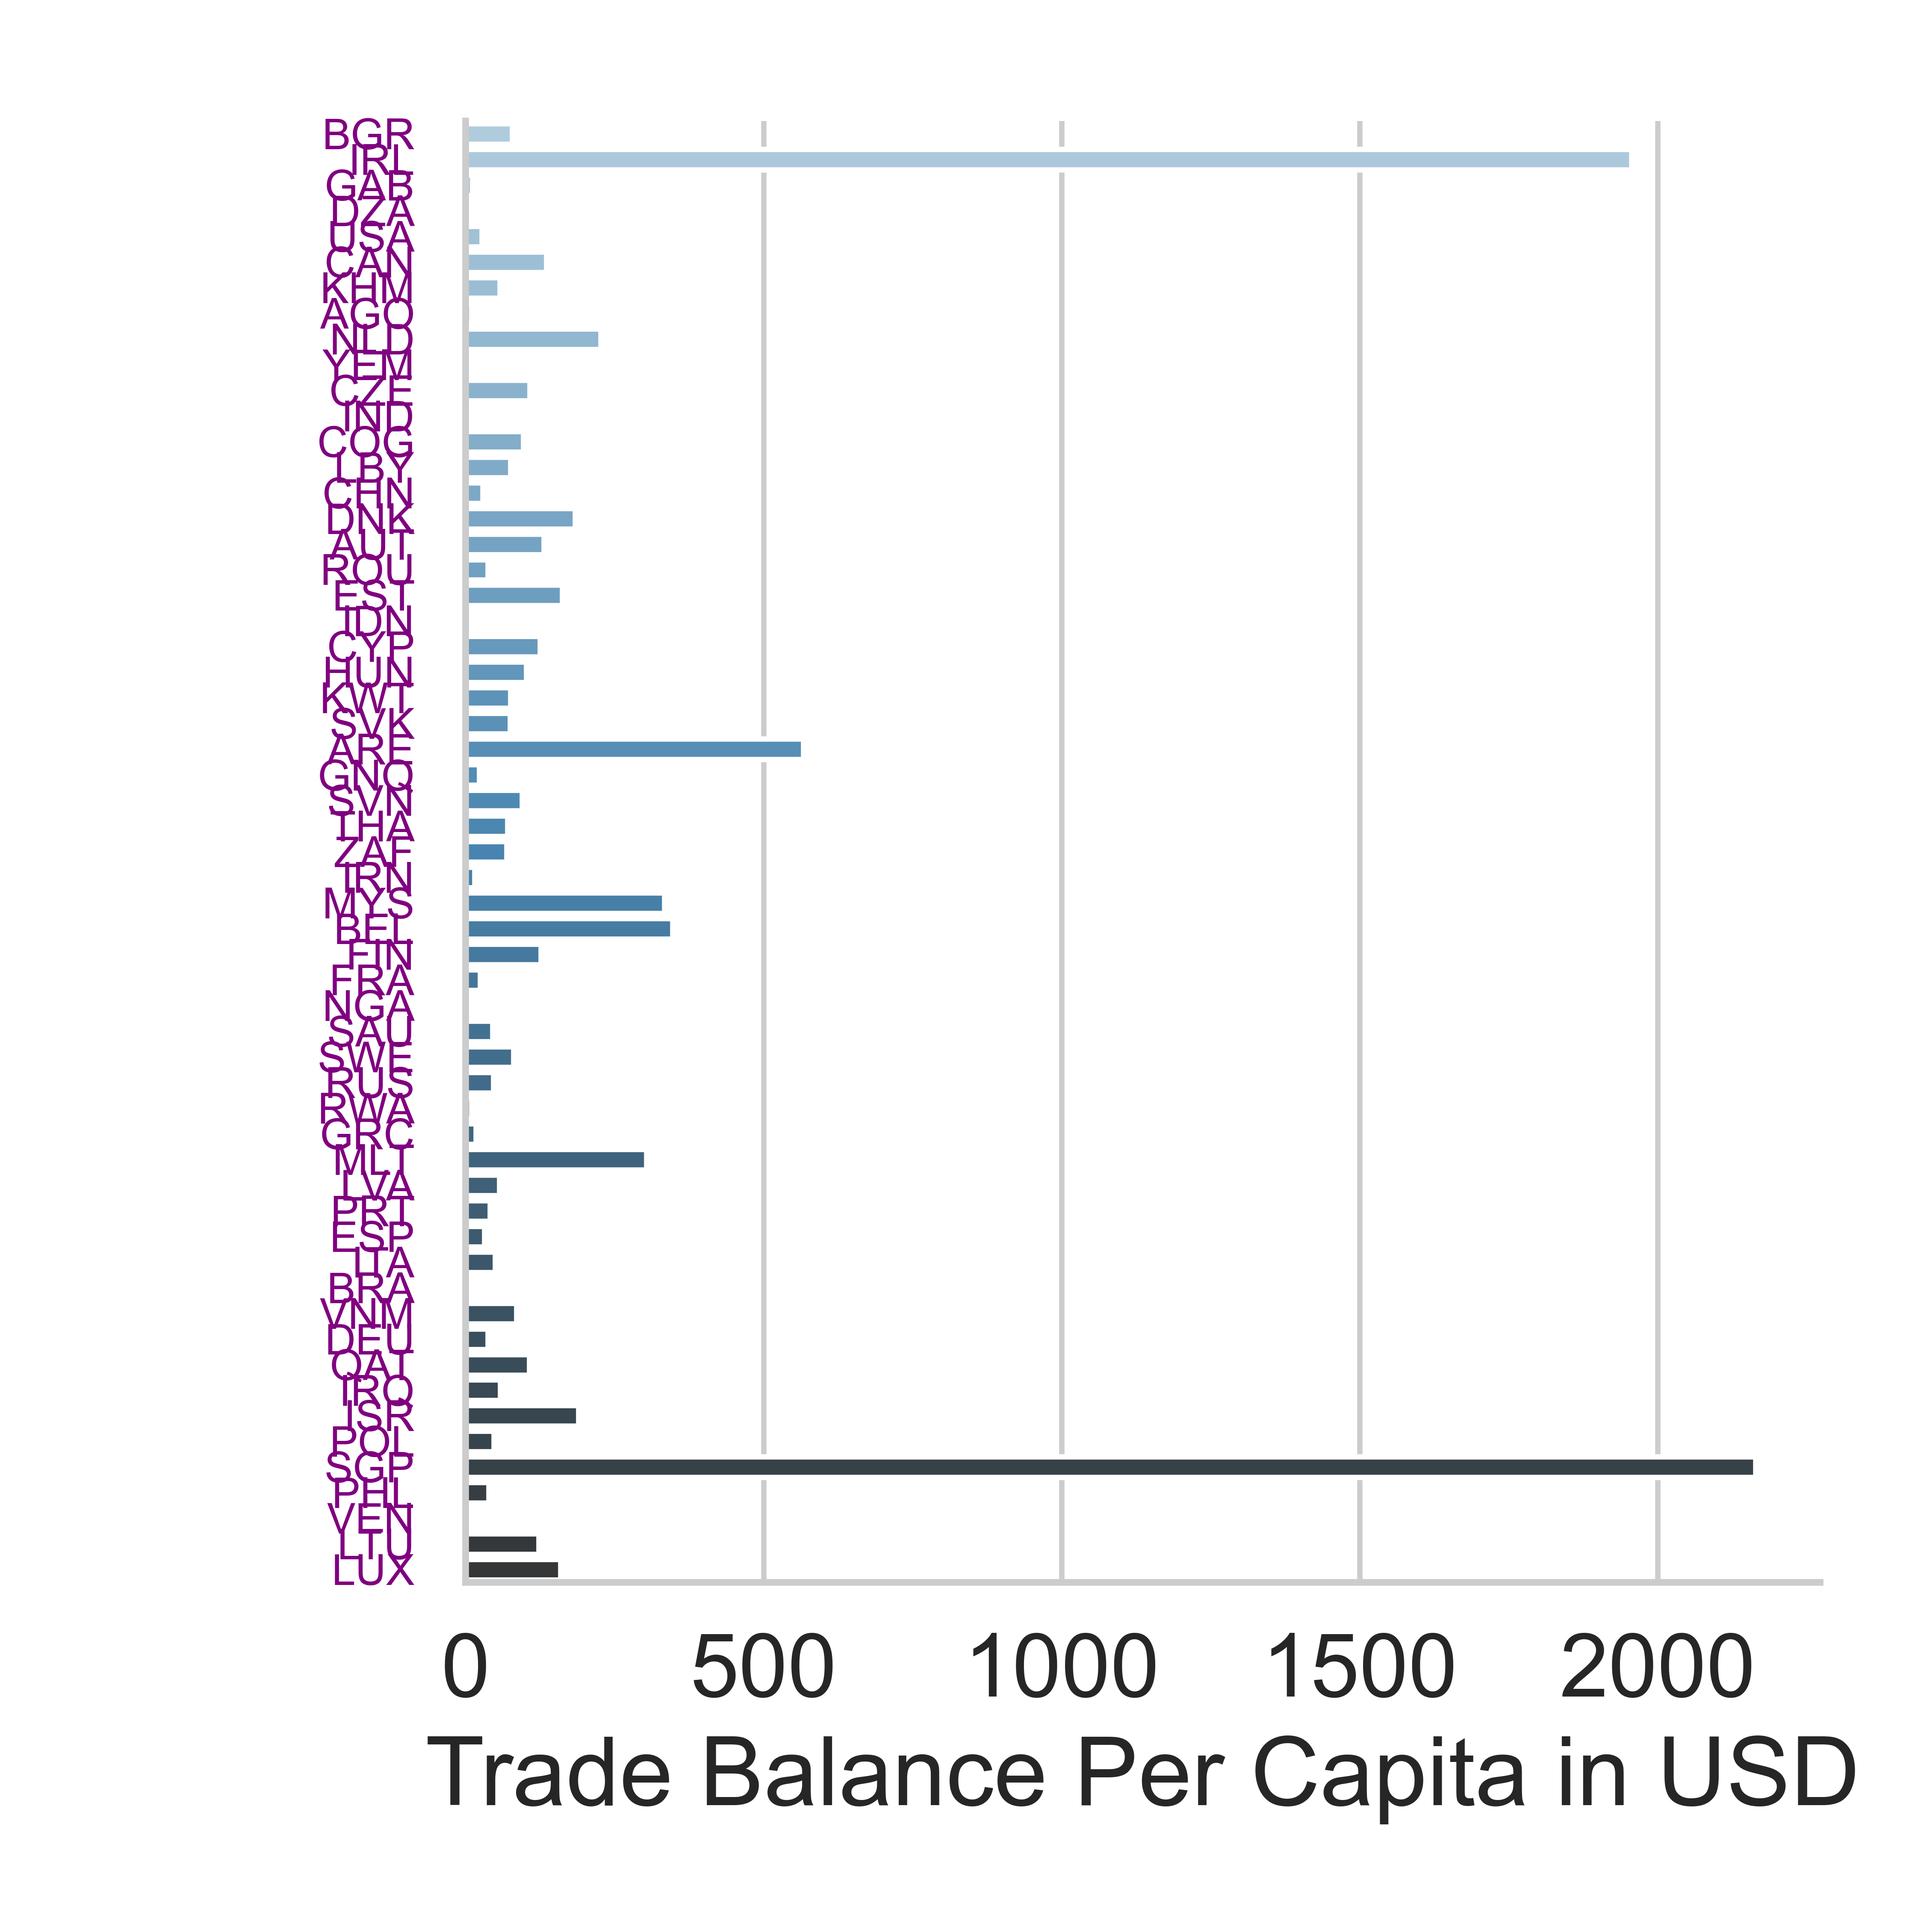
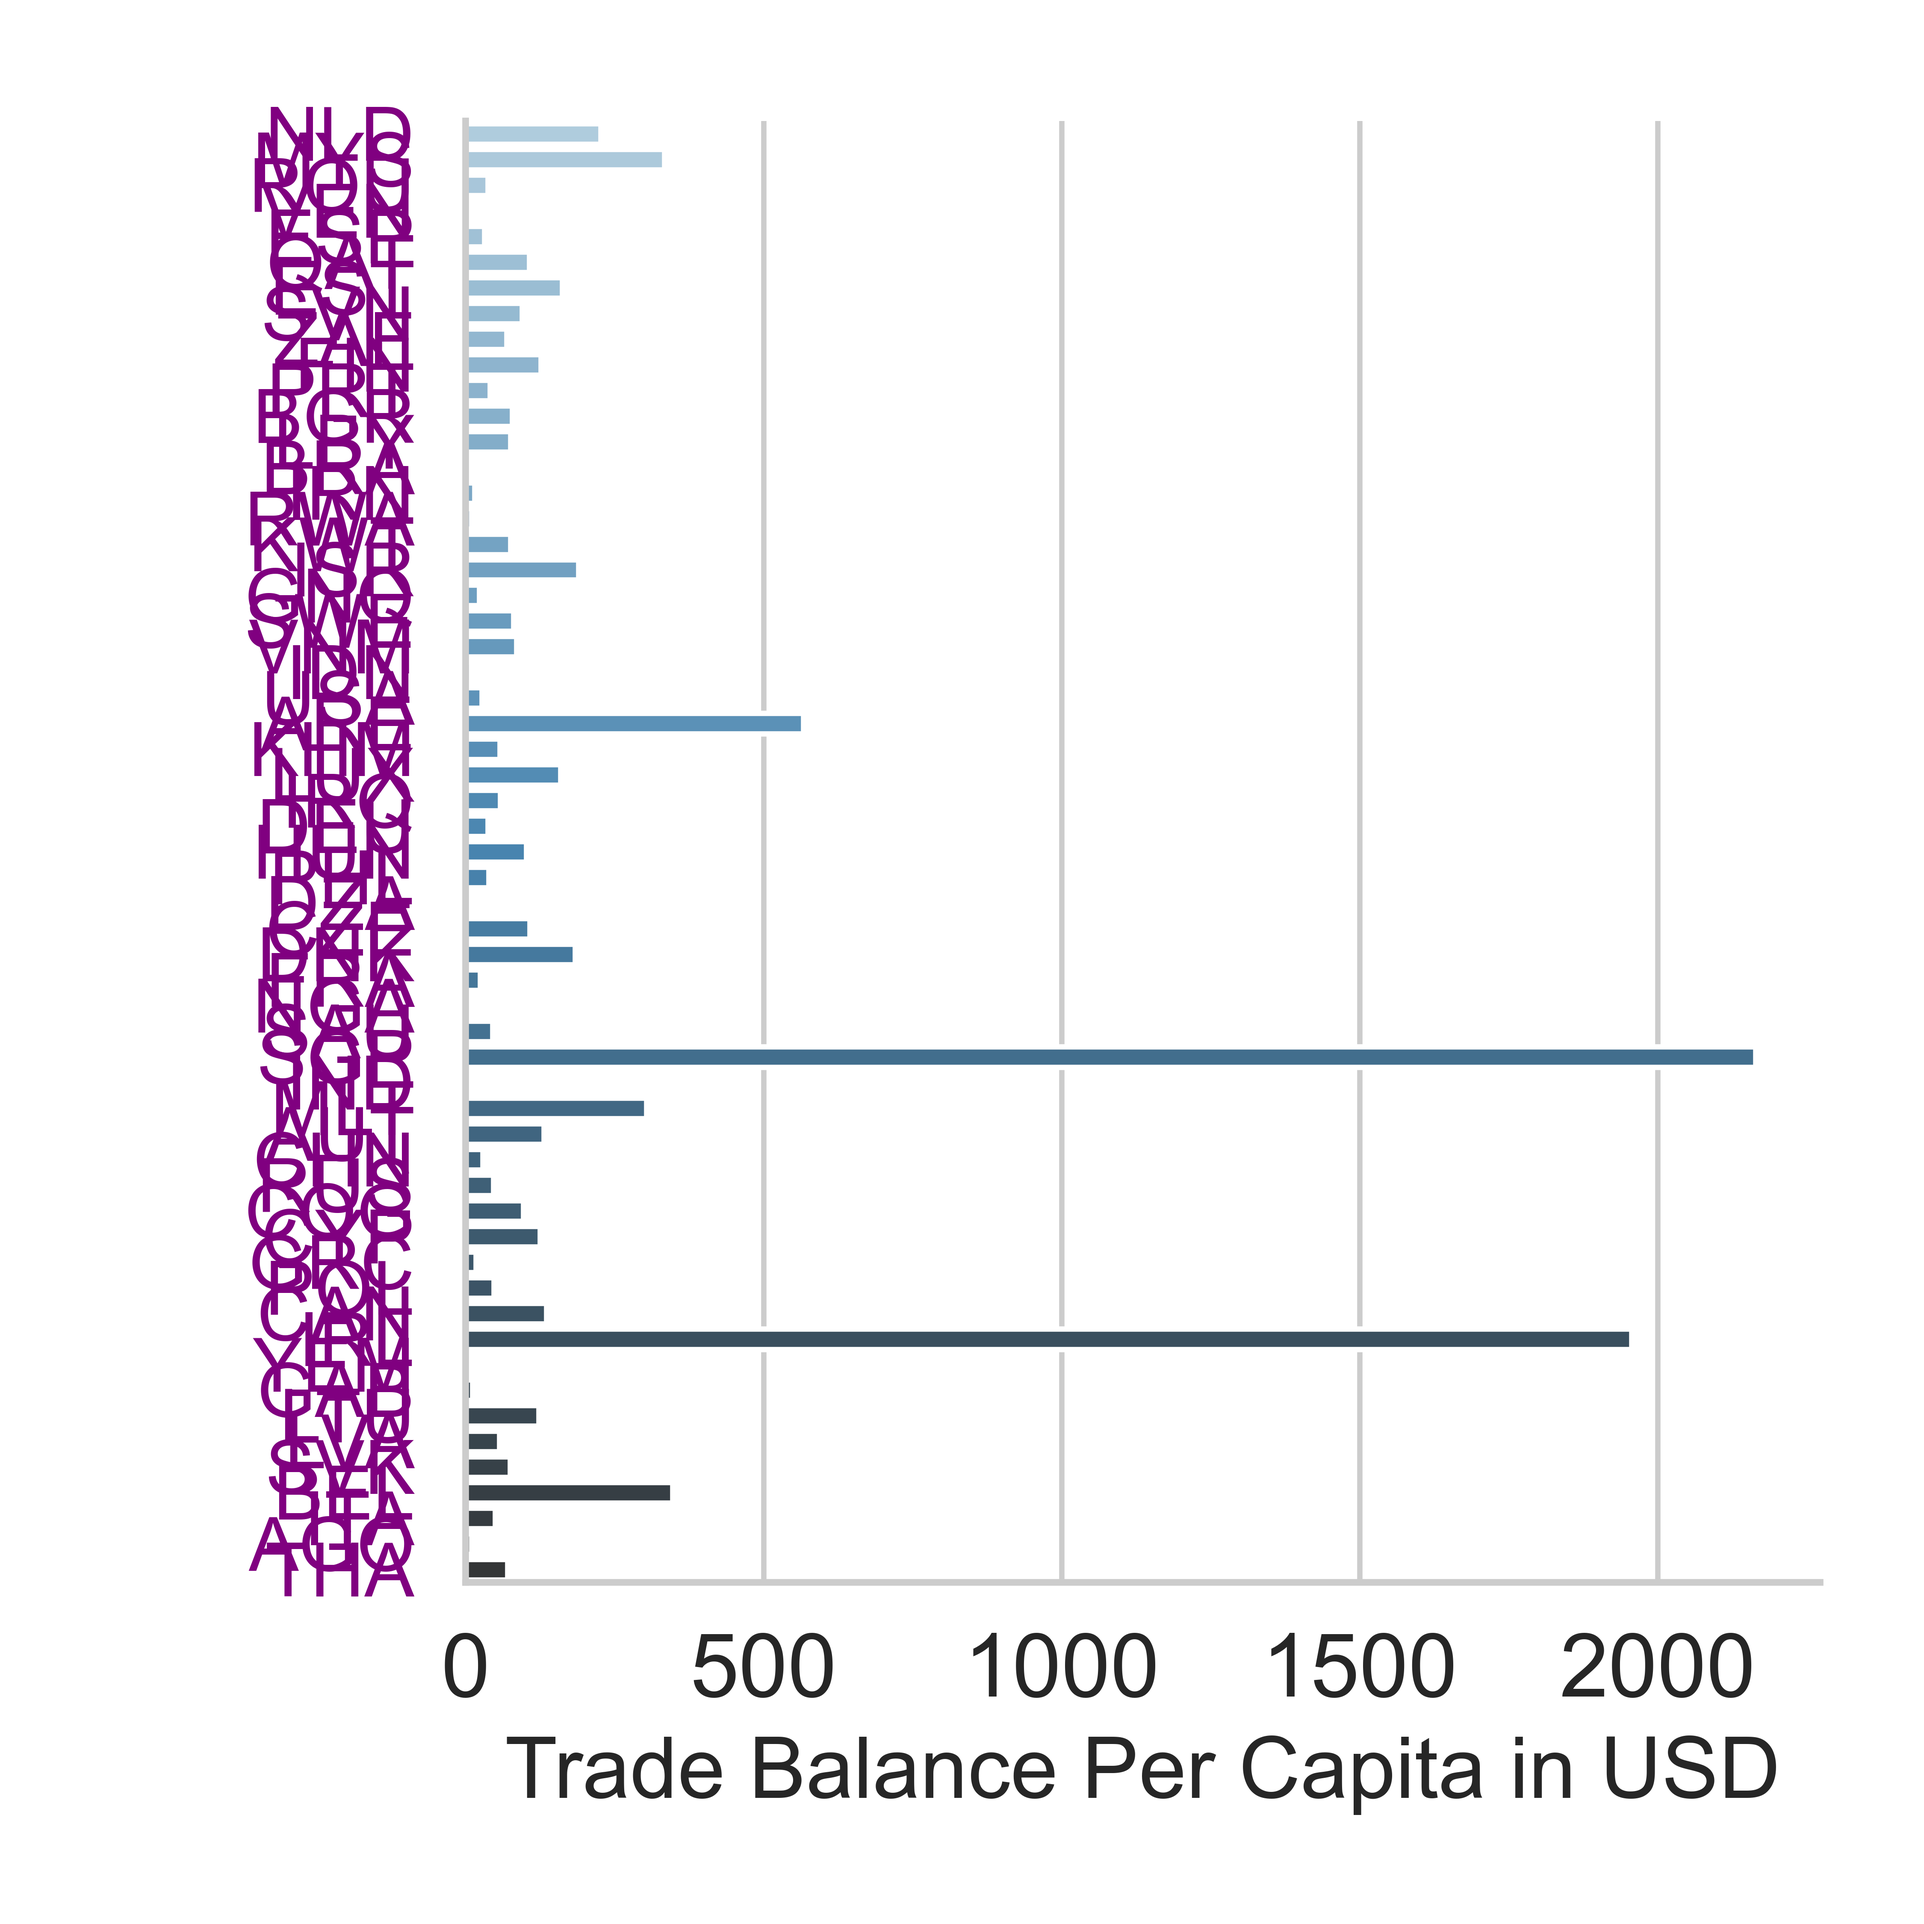
update readme

diff --git a/python/plot_treemaps_exports.py b/python/plot_treemaps_exports.py
@@ -368,14 +368,15 @@ def main():
 
         # Make the font human readable 
         sns.set(font_scale=1.5)
+
         fig, ax = plt.subplots(figsize=(5, 8))
         sns.set_style("whitegrid")
         sns.catplot(x='avg_trade_bal_per_capita', y='location_code', data=all_countries_df.to_pandas(), palette='Blues_d', kind='bar')
         plt.title('')
-        plt.xlabel('Trade Balance Per Capita in USD')
+        plt.xlabel('Trade Balance Per Capita in USD',fontsize=16)
         plt.ylabel('')
         # Seaborn decreasethe font size of y labels 
-        plt.yticks(fontsize=8, color='purple')
+        plt.yticks(fontsize=14, color='purple')
         plt.savefig('../output/top10partners_all_countries_df_' + location_code + '.png', dpi=900)
 
     # Call the function
